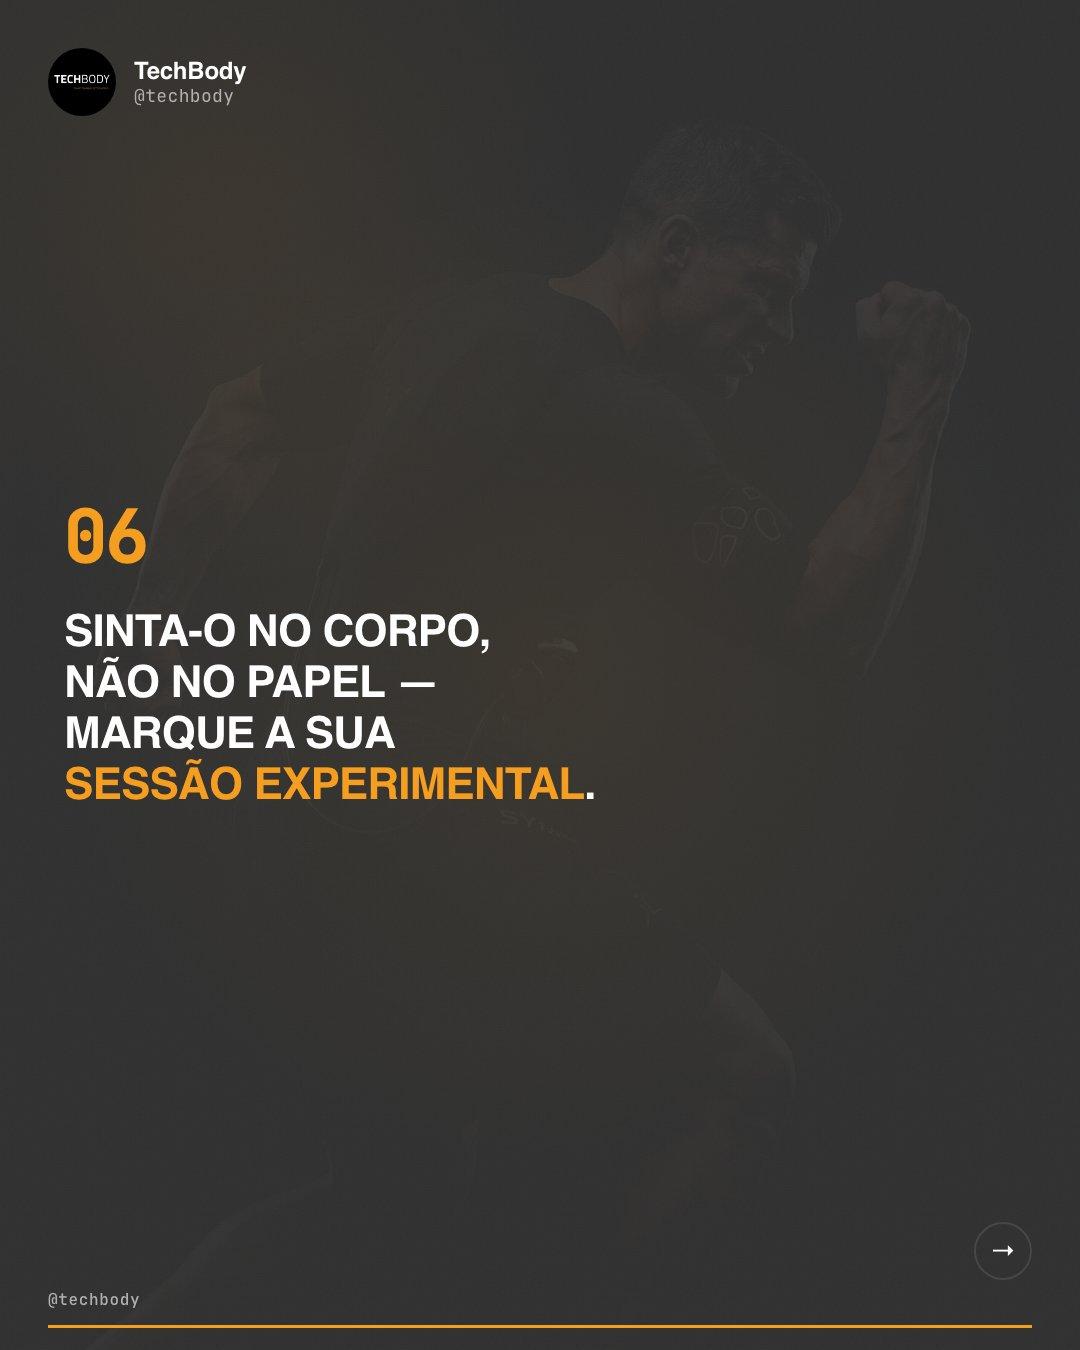
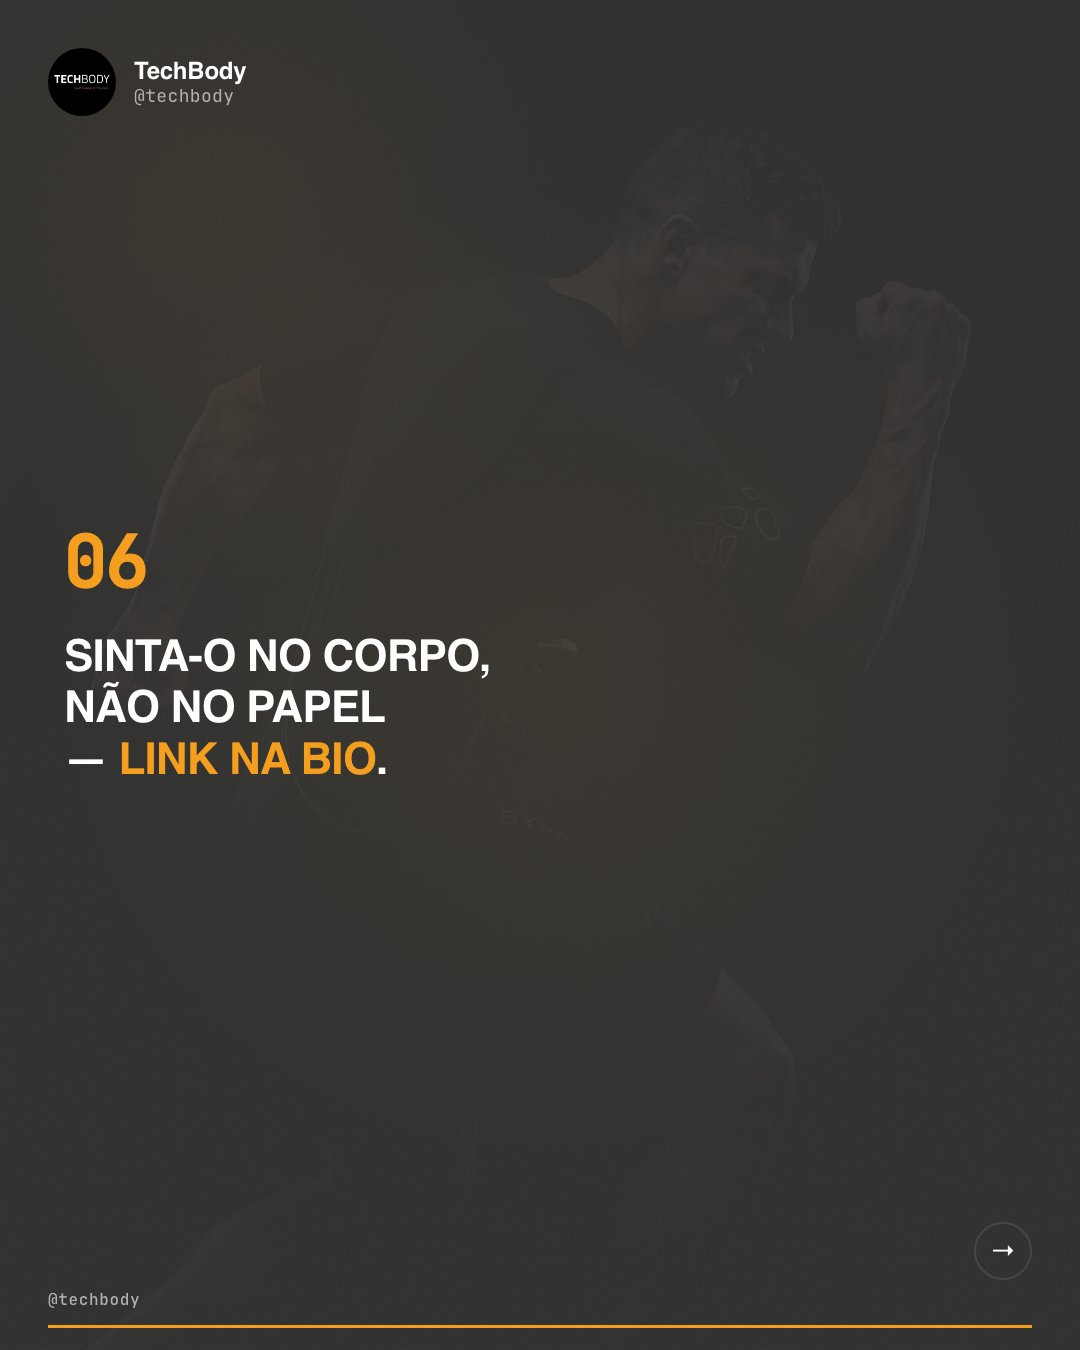
fix(cta): remover 'sessão experimental' da TBU + fix CTA texts
REGRA DE OURO aplicada:
- TechBody U: ZERO 'sessão experimental' em todos os 4 carrosséis
  CTA alterado para 'Link na bio' em c01-c04
- TechBody: 'sessão experimental' removido de c01-c03
  CTA alterado para 'Link na bio' (c04 mantém 'reunião de avaliação' — B2B)
- Luiz c14: 'Link na bio' → 'Envia-me mensagem TENDÊNCIA'
  (Luiz nunca tem 'Link na bio', sempre 'Envia-me mensagem')
- Screenshots regenerados

Changed region(s): [[0.0611, 0.3733, 0.55, 0.5911]]

diff --git a/public/brands/techbody/output/2026-07/carrosseis/c02-uma-sessao-por-dentro.html b/public/brands/techbody/output/2026-07/carrosseis/c02-uma-sessao-por-dentro.html
@@ -170,7 +170,7 @@ body { font-family: var(--font-display); color: var(--text); }
   <div class="profile"><div class="avatar" style="background:var(--accent);"><img src="_avatar.png" alt="TechBody" style="object-fit:cover;padding:0;"/></div><div class="who"><div class="name">TechBody</div><div class="handle">@techbody</div></div></div>
   <div class="content">
     <div class="num">06</div>
-    <h1>Sinta-o no corpo, não no papel — marque a sua <em>sessão experimental</em>.</h1>
+    <h1>Sinta-o no corpo, não no papel — <em>Link na bio</em>.</h1>
     
   </div>
   <div class="arrow-mark">→</div><div class="watermark">@techbody</div><div class="progress"><span style="width:100.0%"></span></div>

diff --git a/public/brands/techbody_u/output/2026-07/carrosseis/c01-treino-de-ferias.html b/public/brands/techbody_u/output/2026-07/carrosseis/c01-treino-de-ferias.html
@@ -157,7 +157,7 @@ body { font-family: var(--font-display); color: var(--text); }
   <div class="profile" style="gap:0;"><img src="../../../assets/logos/magnific__other-black-text-on-a-white-background-with-smalle__28184.png" alt="TechBody U" style="height:48px;width:auto;display:block;"/></div>
   <div class="content">
     <div class="num">06</div>
-    <h1>Leve o TechBody <em>U</em> de férias. Marque a sua sessão experimental.</h1>
+    <h1>Leve o TechBody <em>U</em> de férias. <em>Link na bio</em> para começar.</h1>
     
   </div>
   <div class="arrow-mark">→</div><div class="watermark">@techbody_u</div><div class="progress"><span style="width:100.0%"></span></div>

diff --git a/public/brands/techbody_u/output/2026-07/carrosseis/c04-comprar-com-confianca.html b/public/brands/techbody_u/output/2026-07/carrosseis/c04-comprar-com-confianca.html
@@ -164,7 +164,7 @@ body { font-family: var(--font-display); color: var(--text); }
   <div class="profile" style="gap:0;"><img src="../../../assets/logos/magnific__other-black-text-on-a-white-background-with-smalle__28184.png" alt="TechBody U" style="height:48px;width:auto;display:block;"/></div>
   <div class="content">
     <div class="num">06</div>
-    <h1>Compre com <em>confiança</em>. Marque a sua sessão experimental.</h1>
+    <h1>Compre com <em>confiança</em>. <em>Link na bio</em> para conhecer o sistema.</h1>
     
   </div>
   <div class="arrow-mark">→</div><div class="watermark">@techbody_u</div><div class="progress"><span style="width:100.0%"></span></div>

diff --git a/public/brands/techbody_u/output/2026-07/carrosseis/c03-da-caixa-ao-treino.html b/public/brands/techbody_u/output/2026-07/carrosseis/c03-da-caixa-ao-treino.html
@@ -166,7 +166,7 @@ body { font-family: var(--font-display); color: var(--text); }
   <div class="profile" style="gap:0;"><img src="../../../assets/logos/magnific__other-black-text-on-a-white-background-with-smalle__28184.png" alt="TechBody U" style="height:48px;width:auto;display:block;"/></div>
   <div class="content">
     <div class="num">06</div>
-    <h1>Da caixa ao primeiro treino. Marque a sua <em>sessão experimental</em>.</h1>
+    <h1>Da caixa ao primeiro treino. <em>Link na bio</em> para começar.</h1>
     
   </div>
   <div class="arrow-mark">→</div><div class="watermark">@techbody_u</div><div class="progress"><span style="width:100.0%"></span></div>

diff --git a/public/brands/techbody_u/output/2026-07/carrosseis/c02-treinar-vira-jogo.html b/public/brands/techbody_u/output/2026-07/carrosseis/c02-treinar-vira-jogo.html
@@ -170,7 +170,7 @@ body { font-family: var(--font-display); color: var(--text); }
   <div class="profile" style="gap:0;"><img src="../../../assets/logos/magnific__other-black-text-on-a-white-background-with-smalle__28184.png" alt="TechBody U" style="height:48px;width:auto;display:block;"/></div>
   <div class="content">
     <div class="num">06</div>
-    <h1>Comece a <em>jogar</em>. Marque a sua sessão experimental.</h1>
+    <h1>Comece a <em>jogar</em>. <em>Link na bio</em> para saber mais.</h1>
     
   </div>
   <div class="arrow-mark">→</div><div class="watermark">@techbody_u</div><div class="progress"><span style="width:100.0%"></span></div>

diff --git a/public/brands/techbody/output/2026-07/carrosseis/c01-ferias-progresso.html b/public/brands/techbody/output/2026-07/carrosseis/c01-ferias-progresso.html
@@ -157,7 +157,7 @@ body { font-family: var(--font-display); color: var(--text); }
   <div class="profile"><div class="avatar" style="background:var(--accent);"><img src="_avatar.png" alt="TechBody" style="object-fit:cover;padding:0;"/></div><div class="who"><div class="name">TechBody</div><div class="handle">@techbody</div></div></div>
   <div class="content">
     <div class="num">06</div>
-    <h1>Marque a sua <em>sessão experimental</em>.</h1>
+    <h1><em>Link na bio</em> para começar.</h1>
     
   </div>
   <div class="arrow-mark">→</div><div class="watermark">@techbody</div><div class="progress"><span style="width:100.0%"></span></div>

diff --git a/public/brands/techbody/output/2026-07/carrosseis/c03-para-quem-e.html b/public/brands/techbody/output/2026-07/carrosseis/c03-para-quem-e.html
@@ -166,7 +166,7 @@ body { font-family: var(--font-display); color: var(--text); }
   <div class="profile"><div class="avatar" style="background:var(--accent);"><img src="_avatar.png" alt="TechBody" style="object-fit:cover;padding:0;"/></div><div class="who"><div class="name">TechBody</div><div class="handle">@techbody</div></div></div>
   <div class="content">
     <div class="num">06</div>
-    <h1>Comece pela <em>sessão experimental</em>.</h1>
+    <h1><em>Link na bio</em> para começar.</h1>
     
   </div>
   <div class="arrow-mark">→</div><div class="watermark">@techbody</div><div class="progress"><span style="width:100.0%"></span></div>

diff --git a/public/brands/luiz_santana/output/2026-07/carrosseis/c14-tendencia-tech-treino.html b/public/brands/luiz_santana/output/2026-07/carrosseis/c14-tendencia-tech-treino.html
@@ -164,8 +164,7 @@ O ginásio vira hub social.</h1>
   <div class="orb orb-c"></div>
   <div class="content">
     <div class="num">06</div>
-    <h1>Link na bio.
-Experimenta a tecnologia mais avançada.</h1>
+    <h1>Envia-me mensagem TENDÊNCIA — eu explico-te o que está a mudar.</h1>
     
   </div>
   <div class="arrow-mark">→</div><div class="watermark">@techbody_pt</div><div class="progress"><span style="width:100.0%"></span></div>
